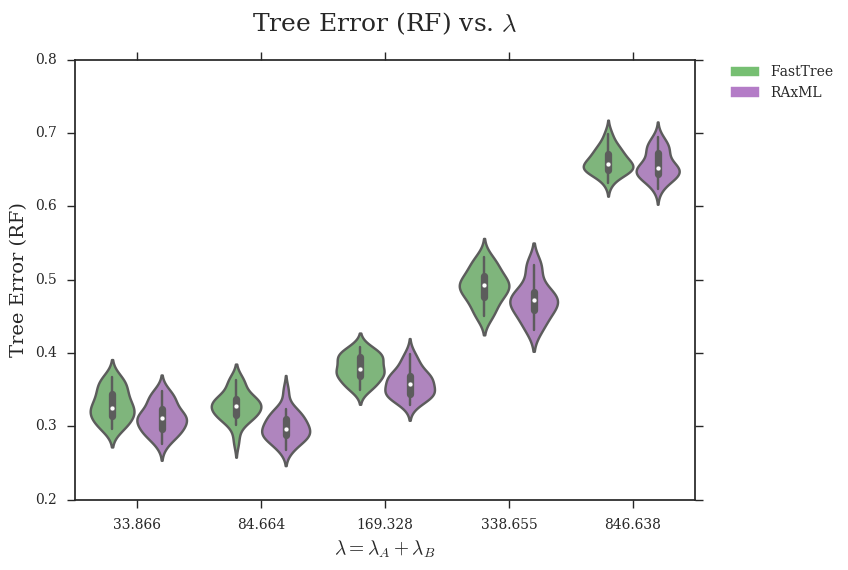
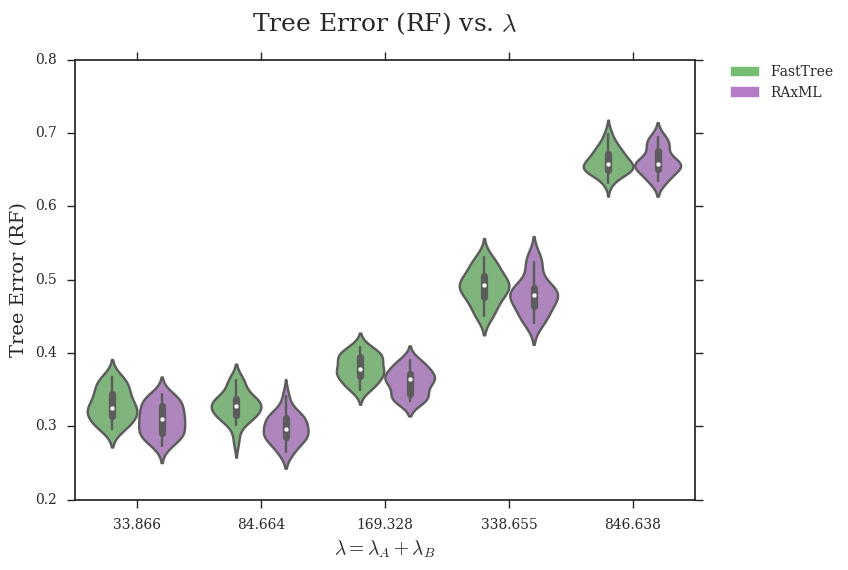
Update figure using RAxML trees with support

diff --git a/figures/scripts/3_tree-error-rf-vs-parameters.py b/figures/scripts/3_tree-error-rf-vs-parameters.py
@@ -28,13 +28,21 @@ r_fasttree = {'r':np.array([-4]*20+[-3]*20+[-2]*20+[-1]*20+[0]*20), # values of 
                             [0.102,0.1193,0.11625,0.10025,0.1028,0.13035,0.1124,0.10325,0.0782,0.0948,0.1223,0.1173,0.1114,0.12385,0.11125,0.11785,0.0995,0.1203,0.12805,0.0998]                 # r = 1
              ).astype(float)}
 r_raxml    = {'r':np.array([-4]*20+[-3]*20+[-2]*20+[-1]*20+[0]*20), # values of r (log-scaled)
+              'RF':np.array([0.8576,0.8917,0.8887,0.8877,0.8826,0.8716,0.90271,0.8947,0.8957,0.8566,0.8816,0.91976,0.8837,0.8857,0.8927,0.8977,0.8826,0.8806,0.8756,0.8726] +                    # r = 0.0001
+                            [0.6286,0.6359,0.6306,0.668,0.6901,0.674,0.663,0.659,0.651,0.6496,0.657,0.65965,0.678,0.6489,0.6419,0.682,0.6369,0.6951,0.6881,0.653] +                              # r = 0.001
+                            [0.334,0.3579,0.3529,0.37695,0.3691,0.3671,0.3811,0.3661,0.34385,0.339,0.3681,0.3872,0.336,0.3691,0.335,0.38295,0.3569,0.39,0.34285,0.3619] +                        # r = 0.01
+                            [0.1634,0.1594,0.1594,0.17545,0.1855,0.1674,0.1654,0.1334,0.1604,0.1895,0.17995,0.1714,0.1594,0.1554,0.2035,0.1664,0.1845,0.1654,0.1815,0.17645] +                   # r = 0.1
+                            [0.09925,0.11025,0.10925,0.09725,0.10125,0.12735,0.11025,0.10125,0.0762,0.08925,0.1223,0.11425,0.10725,0.12735,0.11625,0.11025,0.0993,0.1243,0.13135,0.09525]        # r = 1
+             ).astype(float)}
+''' # VALUES FROM ORIGINAL RAXML TREES
+r_raxml    = {'r':np.array([-4]*20+[-3]*20+[-2]*20+[-1]*20+[0]*20), # values of r (log-scaled)
               'RF':np.array([0.8495,0.8957,0.8847,0.8847,0.8867,0.8676,0.8997,0.8937,0.8907,0.8536,0.8826,0.91976,0.8786,0.8857,0.8897,0.8947,0.8806,0.8816,0.8706,0.8716] +                     # r = 0.0001
                             [0.62255,0.6379,0.6256,0.662,0.674,0.655,0.6499,0.66,0.652,0.6376,0.659,0.6486,0.673,0.6429,0.6359,0.68,0.6279,0.6941,0.6851,0.6469] +                               # r = 0.001
                             [0.335,0.34185,0.3509,0.3689,0.3701,0.3661,0.3751,0.3611,0.34485,0.34,0.3541,0.3862,0.341,0.3671,0.329,0.388,0.3499,0.399,0.34685,0.3619] +                          # r = 0.01
                             [0.1704,0.1654,0.1614,0.1875,0.17645,0.1704,0.17545,0.1354,0.1644,0.1865,0.185,0.1684,0.1654,0.1544,0.2035,0.1574,0.1875,0.1724,0.1896,0.1875] +                     # r = 0.1
                             [0.10825,0.11525,0.11025,0.09825,0.10025,0.13035,0.11525,0.11125,0.0832,0.09725,0.1243,0.10425,0.10925,0.13035,0.12835,0.11225,0.1083,0.12835,0.12935,0.09725]       # r = 1
              ).astype(float)}
-
+'''
 
 # modifying r = lambdaA/lambdaB (with constant lambda = lambdaA + lambdaB)
 r2_fasttree = {'r':np.array([-4]*20+[-3]*20+[-2]*20+[-1]*20+[0]*20), # values of r (log-scaled)
@@ -45,12 +53,21 @@ r2_fasttree = {'r':np.array([-4]*20+[-3]*20+[-2]*20+[-1]*20+[0]*20), # values of
                              [0.2575,0.25035,0.28145,0.32125,0.2951,0.30835,0.27525,0.3011,0.26855,0.2879,0.30305,0.28135,0.2904,0.31105,0.267,0.29065,0.30185,0.28325,0.28025,0.257]       # r = 1
               ).astype(float)}
 r2_raxml    = {'r':np.array([-4]*20+[-3]*20+[-2]*20+[-1]*20+[0]*20), # values of r (log-scaled)
+               'RF':np.array([0.7262,0.7603,0.6861,0.7422,0.8195,0.7482,0.7161,0.7422,0.7613,0.7563,0.7462,0.7131,0.7021,0.7302,0.7823,0.7583,0.7402,0.6951,0.679,0.7392] +                 # r = 0.0001
+                             [0.4895,0.5216,0.5276,0.5193,0.5557,0.51025,0.5256,0.5125,0.5496,0.5557,0.5664,0.4865,0.5226,0.5517,0.5165,0.5527,0.5085,0.5216,0.5035,0.4794] +               # r = 0.001
+                             [0.334,0.3579,0.3529,0.37695,0.3691,0.3671,0.3811,0.3661,0.34385,0.339,0.3681,0.3872,0.336,0.3691,0.335,0.38295,0.3569,0.39,0.34285,0.3619] +                  # r = 0.01
+                             [0.2767,0.2827,0.28675,0.29575,0.28975,0.2797,0.26465,0.28675,0.29675,0.29675,0.26565,0.28575,0.30775,0.27165,0.31375,0.31075,0.28575,0.30275,0.2817,0.2797] + # r = 0.1
+                             [0.25565,0.25265,0.27065,0.34285,0.29975,0.30675,0.28375,0.31175,0.26965,0.28875,0.30675,0.28675,0.28575,0.31575,0.2827,0.30575,0.30175,0.2757,0.2817,0.26165] # r = 1
+              ).astype(float)}
+''' # VALUES FROM ORIGINAL RAXML TREES
+r2_raxml    = {'r':np.array([-4]*20+[-3]*20+[-2]*20+[-1]*20+[0]*20), # values of r (log-scaled)
                'RF':np.array([0.7252,0.7583,0.678,0.7392,0.8215,0.7402,0.7021,0.7432,0.7513,0.7593,0.7442,0.7172,0.7081,0.7352,0.7854,0.7543,0.7392,0.6861,0.666,0.7392] +                  # r = 0.0001
                              [0.4835,0.5145,0.5246,0.5183,0.5507,0.50525,0.5346,0.5125,0.5406,0.5537,0.5674,0.4814,0.5176,0.5496,0.5206,0.5486,0.5035,0.5176,0.5025,0.4784] +               # r = 0.001
                              [0.335,0.34185,0.3509,0.3689,0.3701,0.3661,0.3751,0.3611,0.34485,0.34,0.3541,0.3862,0.341,0.3671,0.329,0.388,0.3499,0.399,0.34685,0.3619] +                    # r = 0.01
                              [0.26965,0.28575,0.29175,0.29175,0.29475,0.27365,0.26265,0.2777,0.29075,0.29675,0.2757,0.2787,0.31275,0.27165,0.31375,0.29875,0.28775,0.3178,0.2787,0.27165] + # r = 0.1
                              [0.26465,0.25865,0.2767,0.34285,0.30675,0.30175,0.2827,0.30575,0.2767,0.28875,0.31375,0.28875,0.28375,0.30975,0.28975,0.30175,0.30175,0.2787,0.2827,0.26865]   # r = 1
               ).astype(float)}
+'''
 
 # modifying lambda = lambdaA + lambdaB
 l_fasttree = {'lambda':np.array([33.866]*20+[84.664]*20+[169.328]*20+[338.655]*20+[846.638]*20),
@@ -61,12 +78,21 @@ l_fasttree = {'lambda':np.array([33.866]*20+[84.664]*20+[169.328]*20+[338.655]*2
                             [0.65965,0.66925,0.6423,0.64885,0.68815,0.651,0.68,0.65045,0.6474,0.69925,0.6665,0.6534,0.6322,0.6666,0.65965,0.6452,0.65705,0.65555,0.67875,0.6755]    # lambda = 846.63757726278155
              ).astype(float)}
 l_raxml    = {'lambda':np.array([33.866]*20+[84.664]*20+[169.328]*20+[338.655]*20+[846.638]*20),
+              'RF':np.array([0.336,0.2999,0.2899,0.31575,0.32585,0.3198,0.3049,0.3079,0.2909,0.344,0.3129,0.337,0.33185,0.2949,0.2738,0.3139,0.2788,0.2869,0.2869,0.335] +          # lambda = 33.86550309051126
+                            [0.2929,0.342,0.2807,0.30775,0.2859,0.2827,0.2757,0.2648,0.3009,0.29175,0.317,0.3109,0.30275,0.324,0.28575,0.31475,0.29975,0.31175,0.2879,0.26465] +    # lambda = 84.66375772627816
+                            [0.334,0.3579,0.3529,0.37695,0.3691,0.3671,0.3811,0.3661,0.34385,0.339,0.3681,0.3872,0.336,0.3691,0.335,0.38295,0.3569,0.39,0.34285,0.3619] +           # lambda = 169.32751545255631
+                            [0.5236,0.53035,0.4822,0.48725,0.4762,0.5243,0.4774,0.5055,0.4403,0.4895,0.4744,0.45065,0.45815,0.4875,0.4684,0.48725,0.4431,0.4654,0.4814,0.45115] +   # lambda = 338.65503090511262
+                            [0.65865,0.673,0.6439,0.658,0.6941,0.657,0.6931,0.65965,0.651,0.6841,0.65565,0.65815,0.6356,0.66465,0.654,0.6339,0.6379,0.651,0.68475,0.6827]           # lambda = 846.63757726278155
+             ).astype(float)}
+''' # VALUES FROM ORIGINAL RAXML TREES
+l_raxml    = {'lambda':np.array([33.866]*20+[84.664]*20+[169.328]*20+[338.655]*20+[846.638]*20),
               'RF':np.array([0.336,0.2969,0.2959,0.3198,0.31575,0.3178,0.3089,0.3119,0.2989,0.348,0.3139,0.333,0.33385,0.3049,0.2758,0.3099,0.2869,0.2919,0.2859,0.344] +           # lambda = 33.86550309051126
                             [0.2989,0.348,0.28875,0.30375,0.2919,0.29075,0.2807,0.2678,0.2889,0.29475,0.322,0.32,0.30875,0.323,0.28475,0.30975,0.30275,0.31175,0.2818,0.27265] +    # lambda = 84.66375772627816
                             [0.335,0.34185,0.3509,0.3689,0.3701,0.3661,0.3751,0.3611,0.34485,0.34,0.3541,0.3862,0.341,0.3671,0.329,0.388,0.3499,0.399,0.34685,0.3619] +             # lambda = 169.32751545255631
                             [0.5155,0.5203,0.4762,0.4812,0.46315,0.5213,0.4604,0.4945,0.4323,0.4724,0.4714,0.4446,0.46215,0.4694,0.4524,0.48925,0.4311,0.4724,0.4814,0.4461] +      # lambda = 338.65503090511262
                             [0.65265,0.672,0.6389,0.652,0.6941,0.652,0.6861,0.65665,0.6449,0.681,0.6406,0.66315,0.6336,0.65465,0.6469,0.6239,0.6389,0.6449,0.6807,0.67465]          # lambda = 846.63757726278155
              ).astype(float)}
+'''
 
 # modifying sequence length
 k_fasttree = {'length':np.array([50]*20+[100]*20+[200]*20+[300]*20+[600]*20+[1200]*20+[2400]*20+[4800]*20), # values of length
@@ -80,6 +106,17 @@ k_fasttree = {'length':np.array([50]*20+[100]*20+[200]*20+[300]*20+[600]*20+[120
                             [0.06215,0.06015,0.0602,0.0572,0.05815,0.06015,0.0632,0.07415,0.07315,0.0461,0.0642,0.0622,0.0682,0.0682,0.0632,0.0622,0.0622,0.05515,0.06115,0.0682]       # length = 4800
              ).astype(float)}
 k_raxml    = {'length':np.array([50]*20+[100]*20+[200]*20+[300]*20+[600]*20+[1200]*20+[2400]*20+[4800]*20), # values of length
+              'RF':np.array([0.78245,0.8014,0.7723,0.7549,0.7944,0.7649,0.7703,0.7864,0.74035,0.798,0.784,0.7964,0.8064,0.7914,0.7734,0.7659,0.802,0.787,0.7699,0.77595] +              # length = 50
+                            [0.6309,0.5938,0.6419,0.6105,0.5998,0.6286,0.6349,0.62055,0.6399,0.6436,0.611,0.6155,0.6486,0.6105,0.651,0.6095,0.5878,0.6035,0.6058,0.6266] +              # length = 100
+                            [0.4363,0.4604,0.4564,0.4491,0.4351,0.4634,0.4875,0.45015,0.4343,0.4524,0.4383,0.4323,0.4423,0.4845,0.4263,0.4694,0.4664,0.49125,0.4855,0.4351] +           # length = 200
+                            [0.334,0.3579,0.3529,0.37695,0.3691,0.3671,0.3811,0.3661,0.34385,0.339,0.3681,0.3872,0.336,0.3691,0.335,0.38295,0.3569,0.39,0.34285,0.3619] +               # length = 300
+                            [0.2297,0.2326,0.2297,0.2317,0.25765,0.2436,0.2165,0.2105,0.2497,0.2406,0.2528,0.2347,0.2207,0.2487,0.2407,0.2476,0.2046,0.25765,0.2367,0.2407] +           # length = 600
+                            [0.1173,0.13535,0.14335,0.14935,0.13935,0.1704,0.1554,0.1574,0.1544,0.1755,0.1554,0.14735,0.1484,0.1535,0.14735,0.13935,0.1654,0.1434,0.1595,0.1454] +      # length = 1200
+                            [0.09625,0.10025,0.1013,0.10825,0.0873,0.0893,0.0923,0.0873,0.11225,0.0792,0.0782,0.0792,0.08425,0.0812,0.0782,0.0943,0.0933,0.09625,0.0933,0.07015] +      # length = 2400
+                            [0.06415,0.05515,0.0552,0.0512,0.05615,0.05715,0.0622,0.06415,0.06815,0.0481,0.0572,0.0582,0.0672,0.0692,0.0582,0.0582,0.0562,0.0481,0.06415,0.0612]        # length = 4800
+             ).astype(float)}
+''' # VALUES FROM ORIGINAL RAXML TREES
+k_raxml    = {'length':np.array([50]*20+[100]*20+[200]*20+[300]*20+[600]*20+[1200]*20+[2400]*20+[4800]*20), # values of length
               'RF':np.array([0.77845,0.8044,0.7683,0.7549,0.7954,0.7709,0.7803,0.7803,0.74735,0.796,0.786,0.7964,0.8014,0.7854,0.7704,0.7699,0.805,0.77995,0.7689,0.77595] +            # length = 50
                             [0.6279,0.5898,0.6369,0.6085,0.5988,0.62255,0.6319,0.6075,0.6379,0.6446,0.611,0.61655,0.6426,0.6145,0.651,0.6085,0.5807,0.5975,0.5988,0.61655] +            # length = 100
                             [0.4343,0.4504,0.4544,0.4381,0.4361,0.4604,0.4704,0.4431,0.4243,0.4393,0.4433,0.4293,0.4393,0.4865,0.4233,0.4684,0.4554,0.4792,0.4855,0.4301] +             # length = 200
@@ -89,6 +126,7 @@ k_raxml    = {'length':np.array([50]*20+[100]*20+[200]*20+[300]*20+[600]*20+[120
                             [0.10125,0.10125,0.0983,0.10925,0.0903,0.0983,0.0913,0.0923,0.11625,0.0863,0.08825,0.09025,0.09425,0.0903,0.0832,0.1013,0.1033,0.09725,0.1003,0.07415] +    # length = 2400
                             [0.06915,0.06415,0.0582,0.0572,0.05315,0.06515,0.0692,0.06715,0.0802,0.0542,0.0692,0.0672,0.0722,0.0752,0.0612,0.0622,0.0662,0.05715,0.0752,0.0692]         # length = 4800
              ).astype(float)}
+'''
 
 # modifying deviation from ultrametricity
 g_fasttree = {'gammarate':np.array([2.952]*20+[5.904]*20+[29.518]*20+[147.591]*20+[295.182]*20+[float('inf')]*20),
@@ -100,6 +138,15 @@ g_fasttree = {'gammarate':np.array([2.952]*20+[5.904]*20+[29.518]*20+[147.591]*2
                             [0.4001,0.37855,0.36955,0.4024,0.37725,0.38615,0.35245,0.3933,0.3942,0.3745,0.38445,0.3762,0.39205,0.37115,0.4006,0.38395,0.38695,0.368,0.38755,0.36195]  # gamma = infinity
              ).astype(float)}
 g_raxml    = {'gammarate':np.array([2.952]*20+[5.904]*20+[29.518]*20+[147.591]*20+[295.182]*20+[float('inf')]*20),
+              'RF':np.array([0.3831,0.4213,0.392,0.3771,0.4032,0.4132,0.4112,0.3669,0.3952,0.395,0.411,0.3771,0.37795,0.3529,0.4052,0.393,0.4112,0.4112,0.3721,0.3751] +              # gamma = 2.95181735298926
+                            [0.385,0.37695,0.387,0.392,0.4032,0.3842,0.3922,0.3719,0.37895,0.3811,0.3591,0.3711,0.38345,0.3761,0.3691,0.4092,0.3872,0.4193,0.38095,0.3801] +          # gamma = 5.90363470597852
+                            [0.334,0.3579,0.3529,0.37695,0.3691,0.3671,0.3811,0.3661,0.34385,0.339,0.3681,0.3872,0.336,0.3691,0.335,0.38295,0.3569,0.39,0.34285,0.3619] +             # gamma = 29.518173529892621
+                            [0.339,0.3679,0.344,0.33,0.33685,0.3902,0.3709,0.3852,0.3741,0.3529,0.3639,0.3872,0.3629,0.3942,0.34,0.33085,0.3731,0.3591,0.3609,0.3601] +               # gamma = 147.590867649463
+                            [0.332,0.3509,0.37595,0.32685,0.3681,0.3519,0.3228,0.3791,0.3621,0.3509,0.396,0.3629,0.3521,0.37595,0.3541,0.384,0.342,0.335,0.33585,0.33285] +           # gamma = 295.181735298926
+                            [0.3842,0.3531,0.3561,0.386,0.3501,0.3709,0.3501,0.3751,0.3761,0.3711,0.3579,0.3531,0.3591,0.346,0.3831,0.3761,0.348,0.34585,0.3721,0.33285]              # gamma = infinity
+             ).astype(float)}
+''' # VALUES FROM ORIGINAL RAXML TREES
+g_raxml    = {'gammarate':np.array([2.952]*20+[5.904]*20+[29.518]*20+[147.591]*20+[295.182]*20+[float('inf')]*20),
               'RF':np.array([0.3751,0.4112,0.385,0.3912,0.3912,0.4102,0.4142,0.3539,0.3882,0.386,0.405,0.3751,0.386,0.34585,0.4042,0.39,0.4092,0.4052,0.3641,0.3671] +                # gamma = 2.95181735298926
                             [0.3749,0.3609,0.38195,0.393,0.4092,0.3761,0.3852,0.3649,0.3749,0.3831,0.3591,0.3801,0.38345,0.3701,0.3621,0.4042,0.3892,0.4183,0.37595,0.3721] +         # gamma = 5.90363470597852
                             [0.335,0.34185,0.3509,0.3689,0.3701,0.3661,0.3751,0.3611,0.34485,0.34,0.3541,0.3862,0.341,0.3671,0.329,0.388,0.3499,0.399,0.34685,0.3619] +               # gamma = 29.518173529892621
@@ -107,6 +154,7 @@ g_raxml    = {'gammarate':np.array([2.952]*20+[5.904]*20+[29.518]*20+[147.591]*2
                             [0.326,0.33985,0.3669,0.32785,0.3651,0.34685,0.32785,0.3711,0.3671,0.33885,0.385,0.3499,0.344,0.37795,0.3631,0.3699,0.346,0.322,0.33585,0.3238] +         # gamma = 295.181735298926
                             [0.3771,0.3551,0.347,0.37995,0.3521,0.3689,0.3641,0.3561,0.3761,0.3721,0.3519,0.3571,0.3521,0.344,0.3731,0.3691,0.344,0.34885,0.3611,0.33385]             # gamma = infinity
              ).astype(float)}
+'''
 
 # plot tree error (RF) vs. r (with different lambda = lambdaA+lambdaB to keep expected branch length constant)
 fig = plt.figure()
